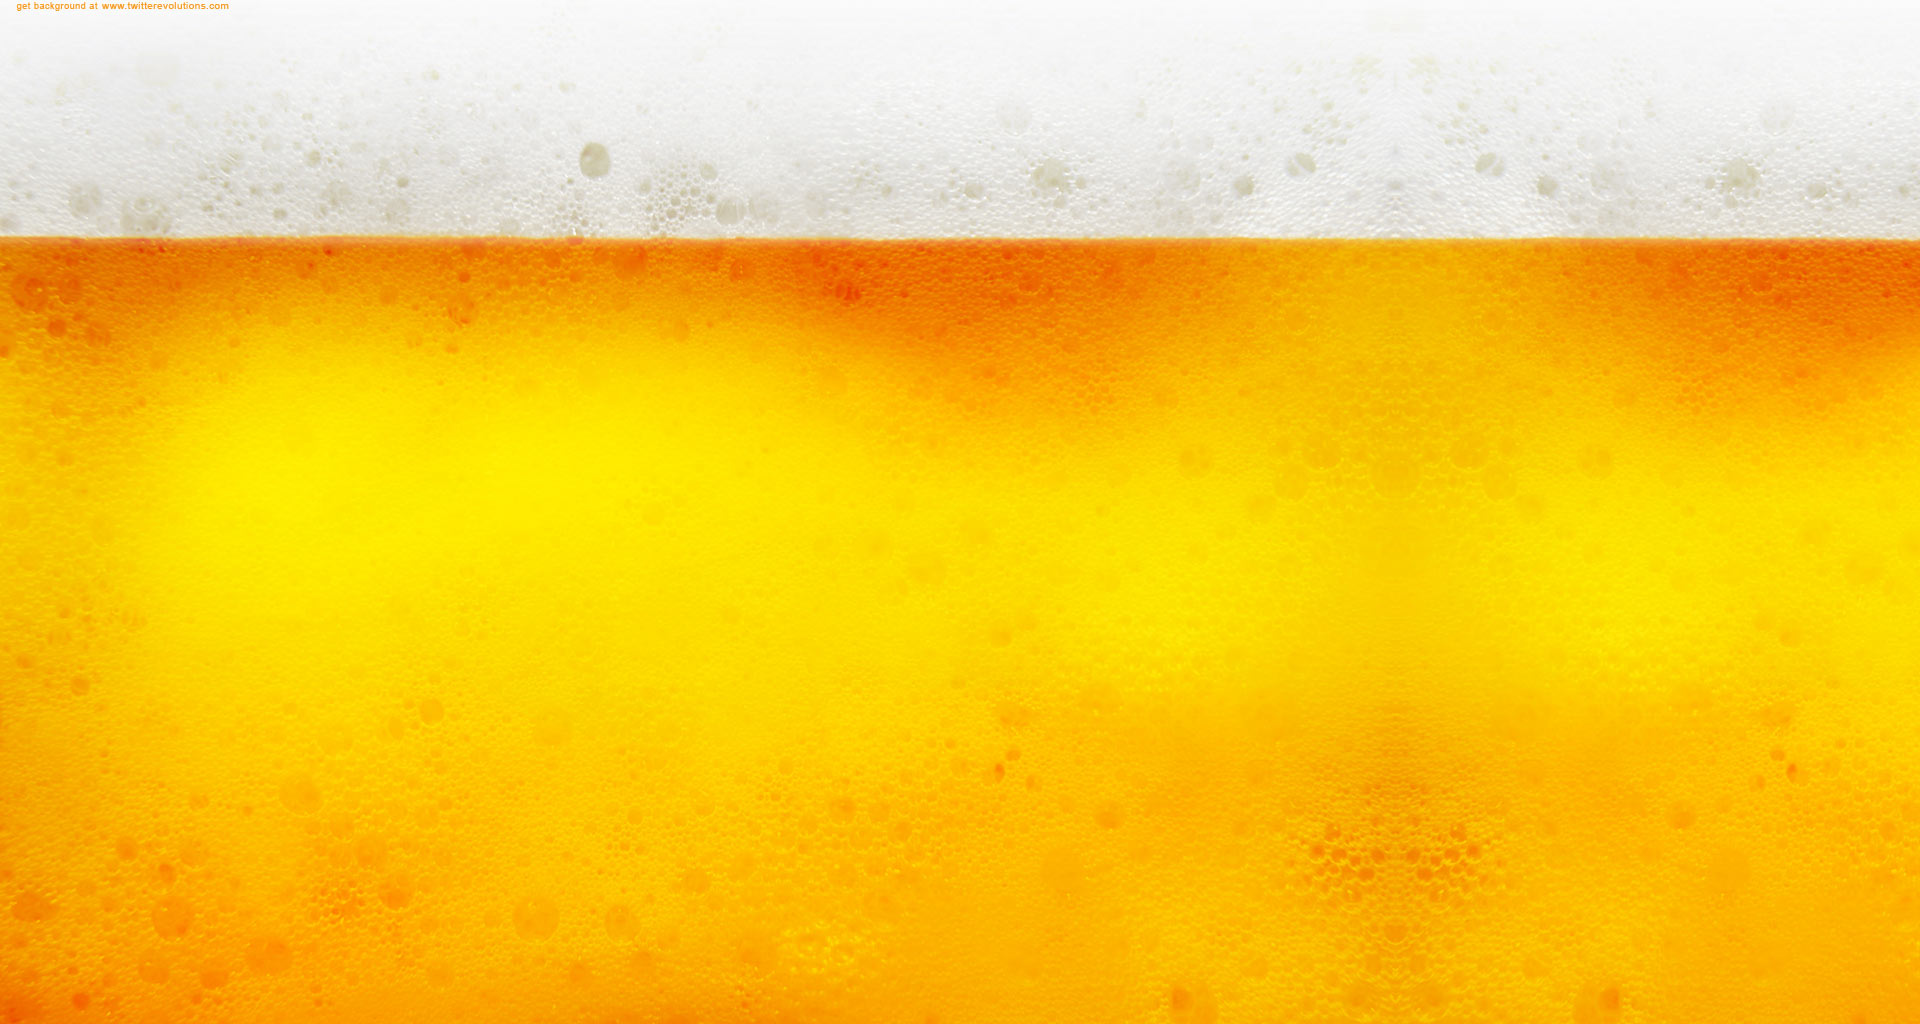
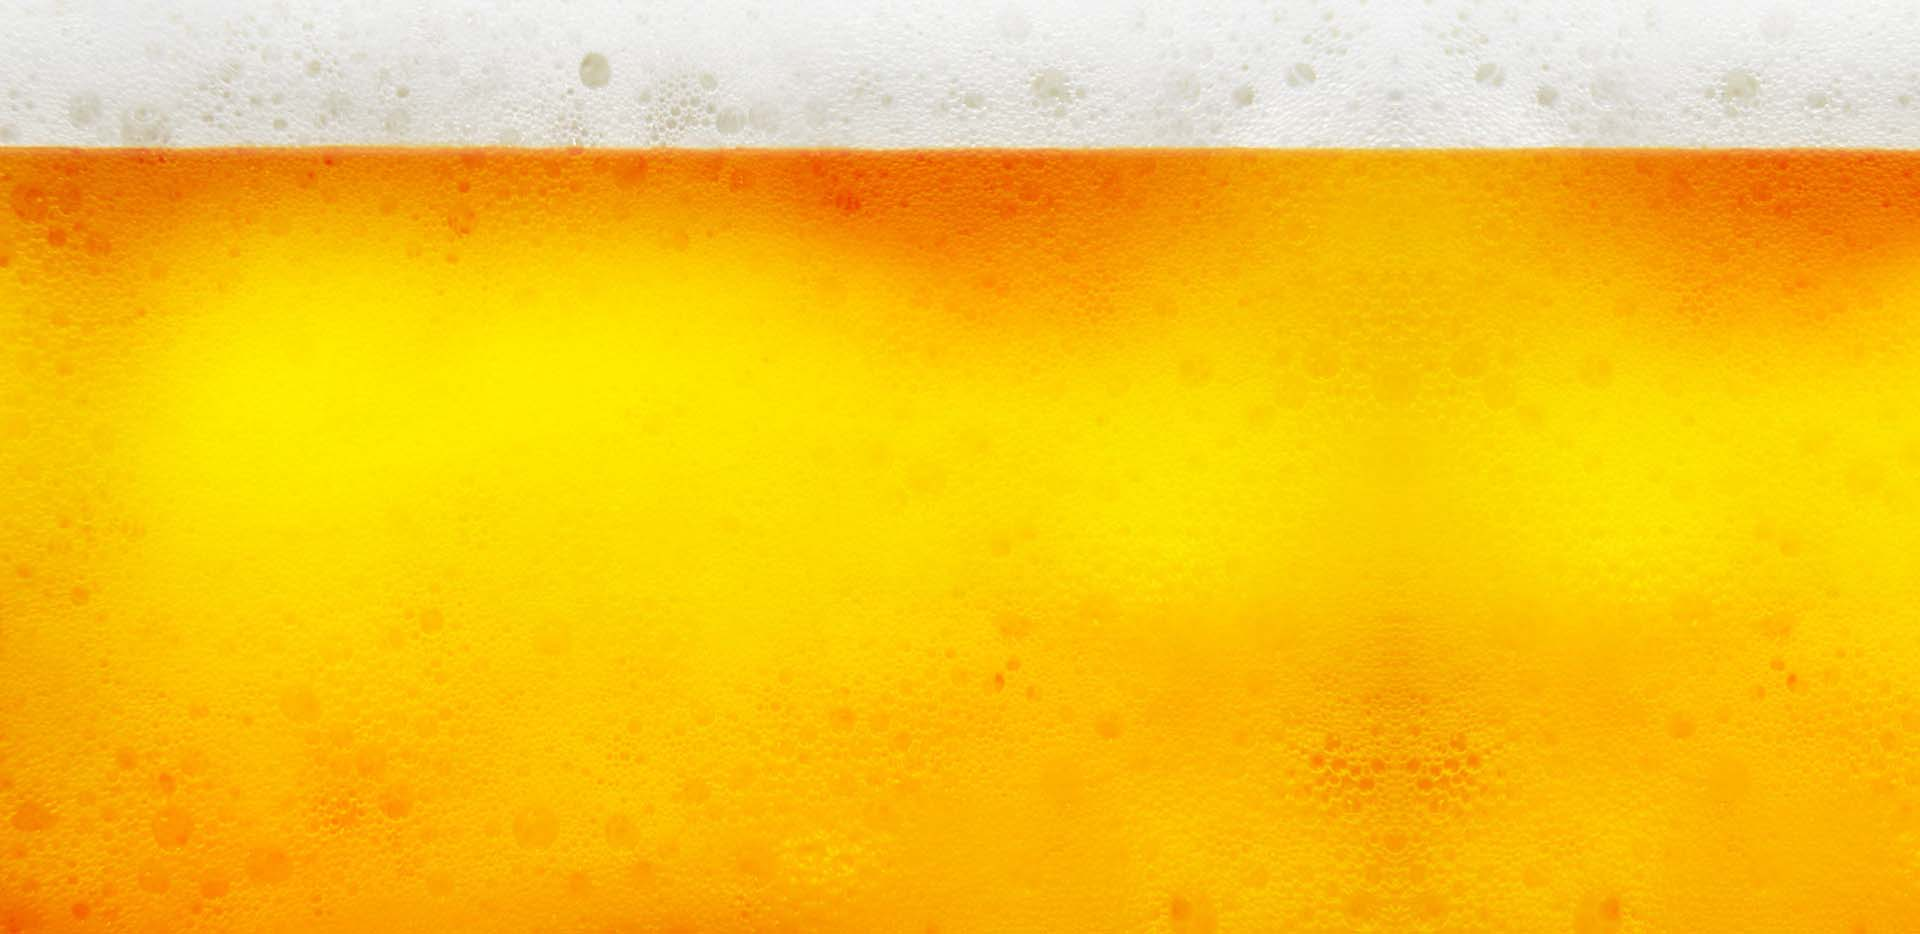
fix background, crop beer bg

diff --git a/public/stylesheets/custom.css b/public/stylesheets/custom.css
@@ -1,22 +1,10 @@
 #head {
   padding-top: 15px;
-	font-size: 2.4em;
-	font-weight: bold;
-	background: gray;
-	height: 70px;
-	color: white;
-	background-image: -webkit-gradient(
-      linear,
-      left bottom,
-      left top,
-      color-stop(0, rgb(163,163,163)),
-      color-stop(1, rgb(112,108,112))
-  );
-  background-image: -moz-linear-gradient(
-      center bottom,
-      rgb(163,163,163) 0%,
-      rgb(112,108,112) 100%
-  );
+  font-size: 2.4em;
+  font-weight: bold;
+  background: gray;
+  height: 70px;
+  color: black;
 }
 
 .navigation {
@@ -31,7 +19,6 @@
   font-size: 1.2em;
   text-decoration: none;
   padding: 5px;
-  background: #0077aa;
 }
 
 .navigation a:hover {

diff --git a/public/stylesheets/screen.css b/public/stylesheets/screen.css
@@ -24,7 +24,7 @@ a img {border:none;}
 
 /* typography.css */
 html {font-size:100.01%;}
-body {font-size:75%;color:#222;background:"/images/beer-pattern.jpg";font-family:"Helvetica Neue", Arial, Helvetica, sans-serif;}
+body {font-size:75%;color:#222;background:url('/images/beer-pattern.jpg');font-family:"Helvetica Neue", Arial, Helvetica, sans-serif;}
 h1, h2, h3, h4, h5, h6 {font-weight:normal;color:#111;}
 h1 {font-size:3em;line-height:1;margin-bottom:0.5em;}
 h2 {font-size:2em;margin-bottom:0.75em;}
